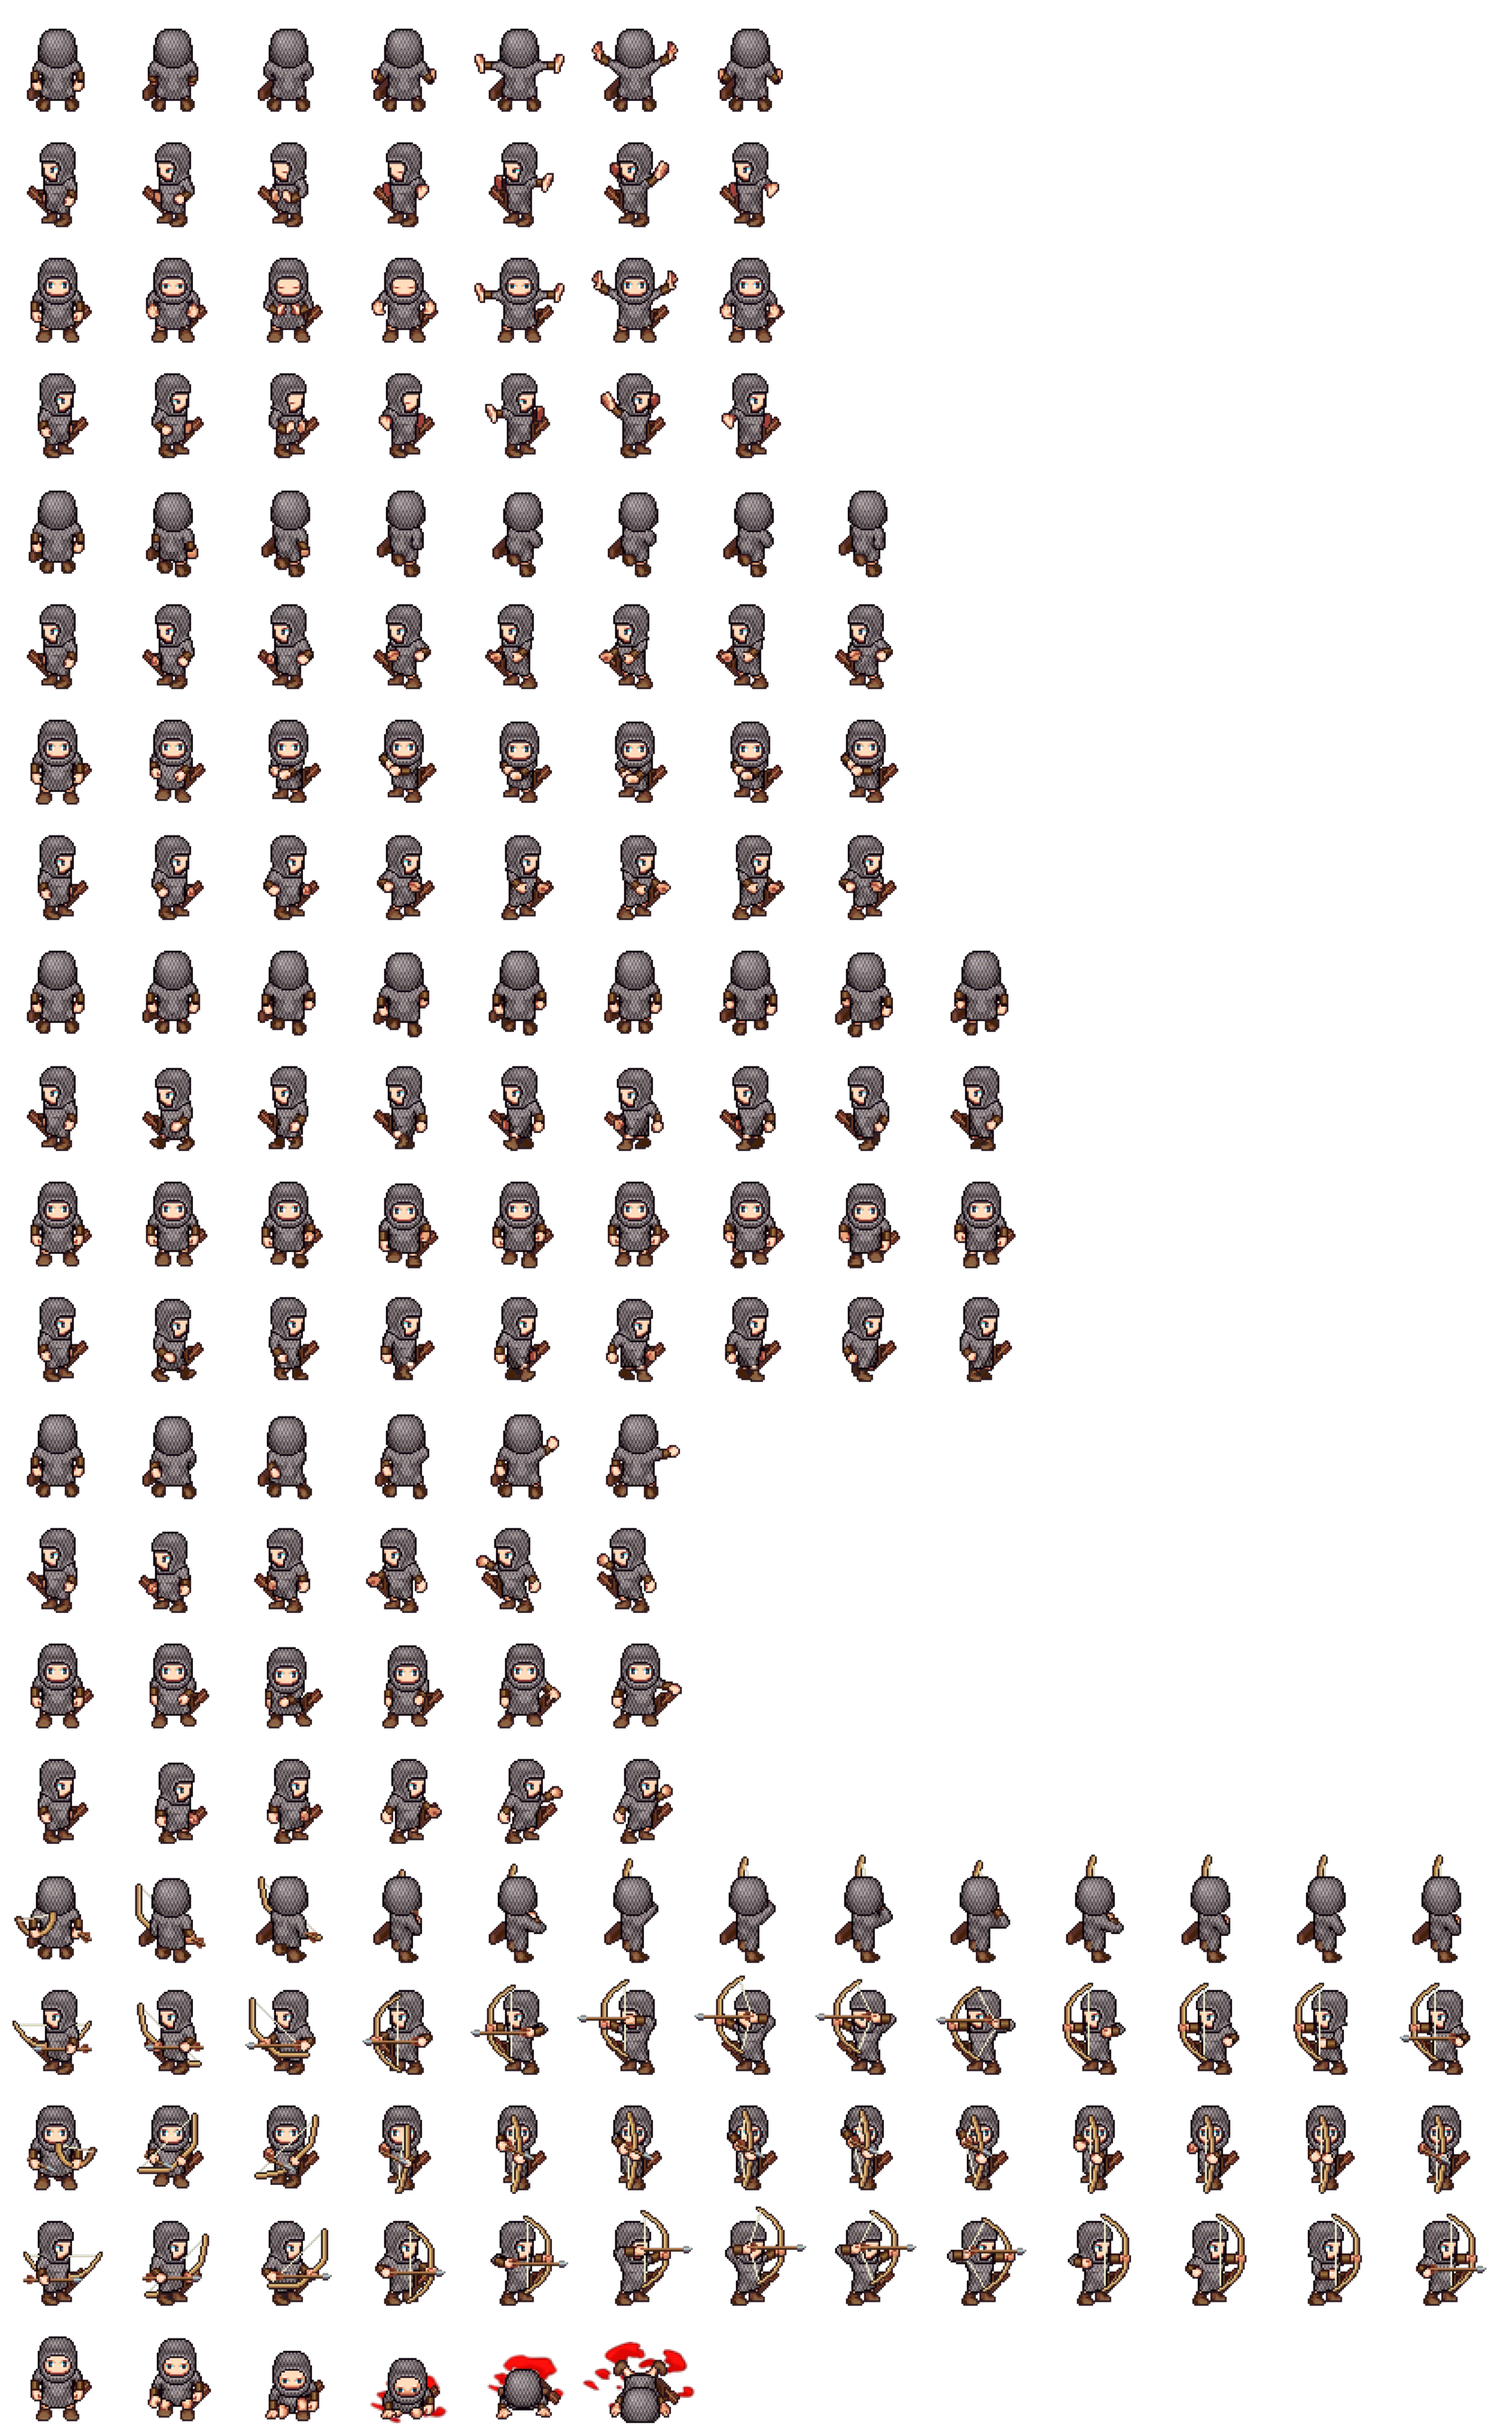
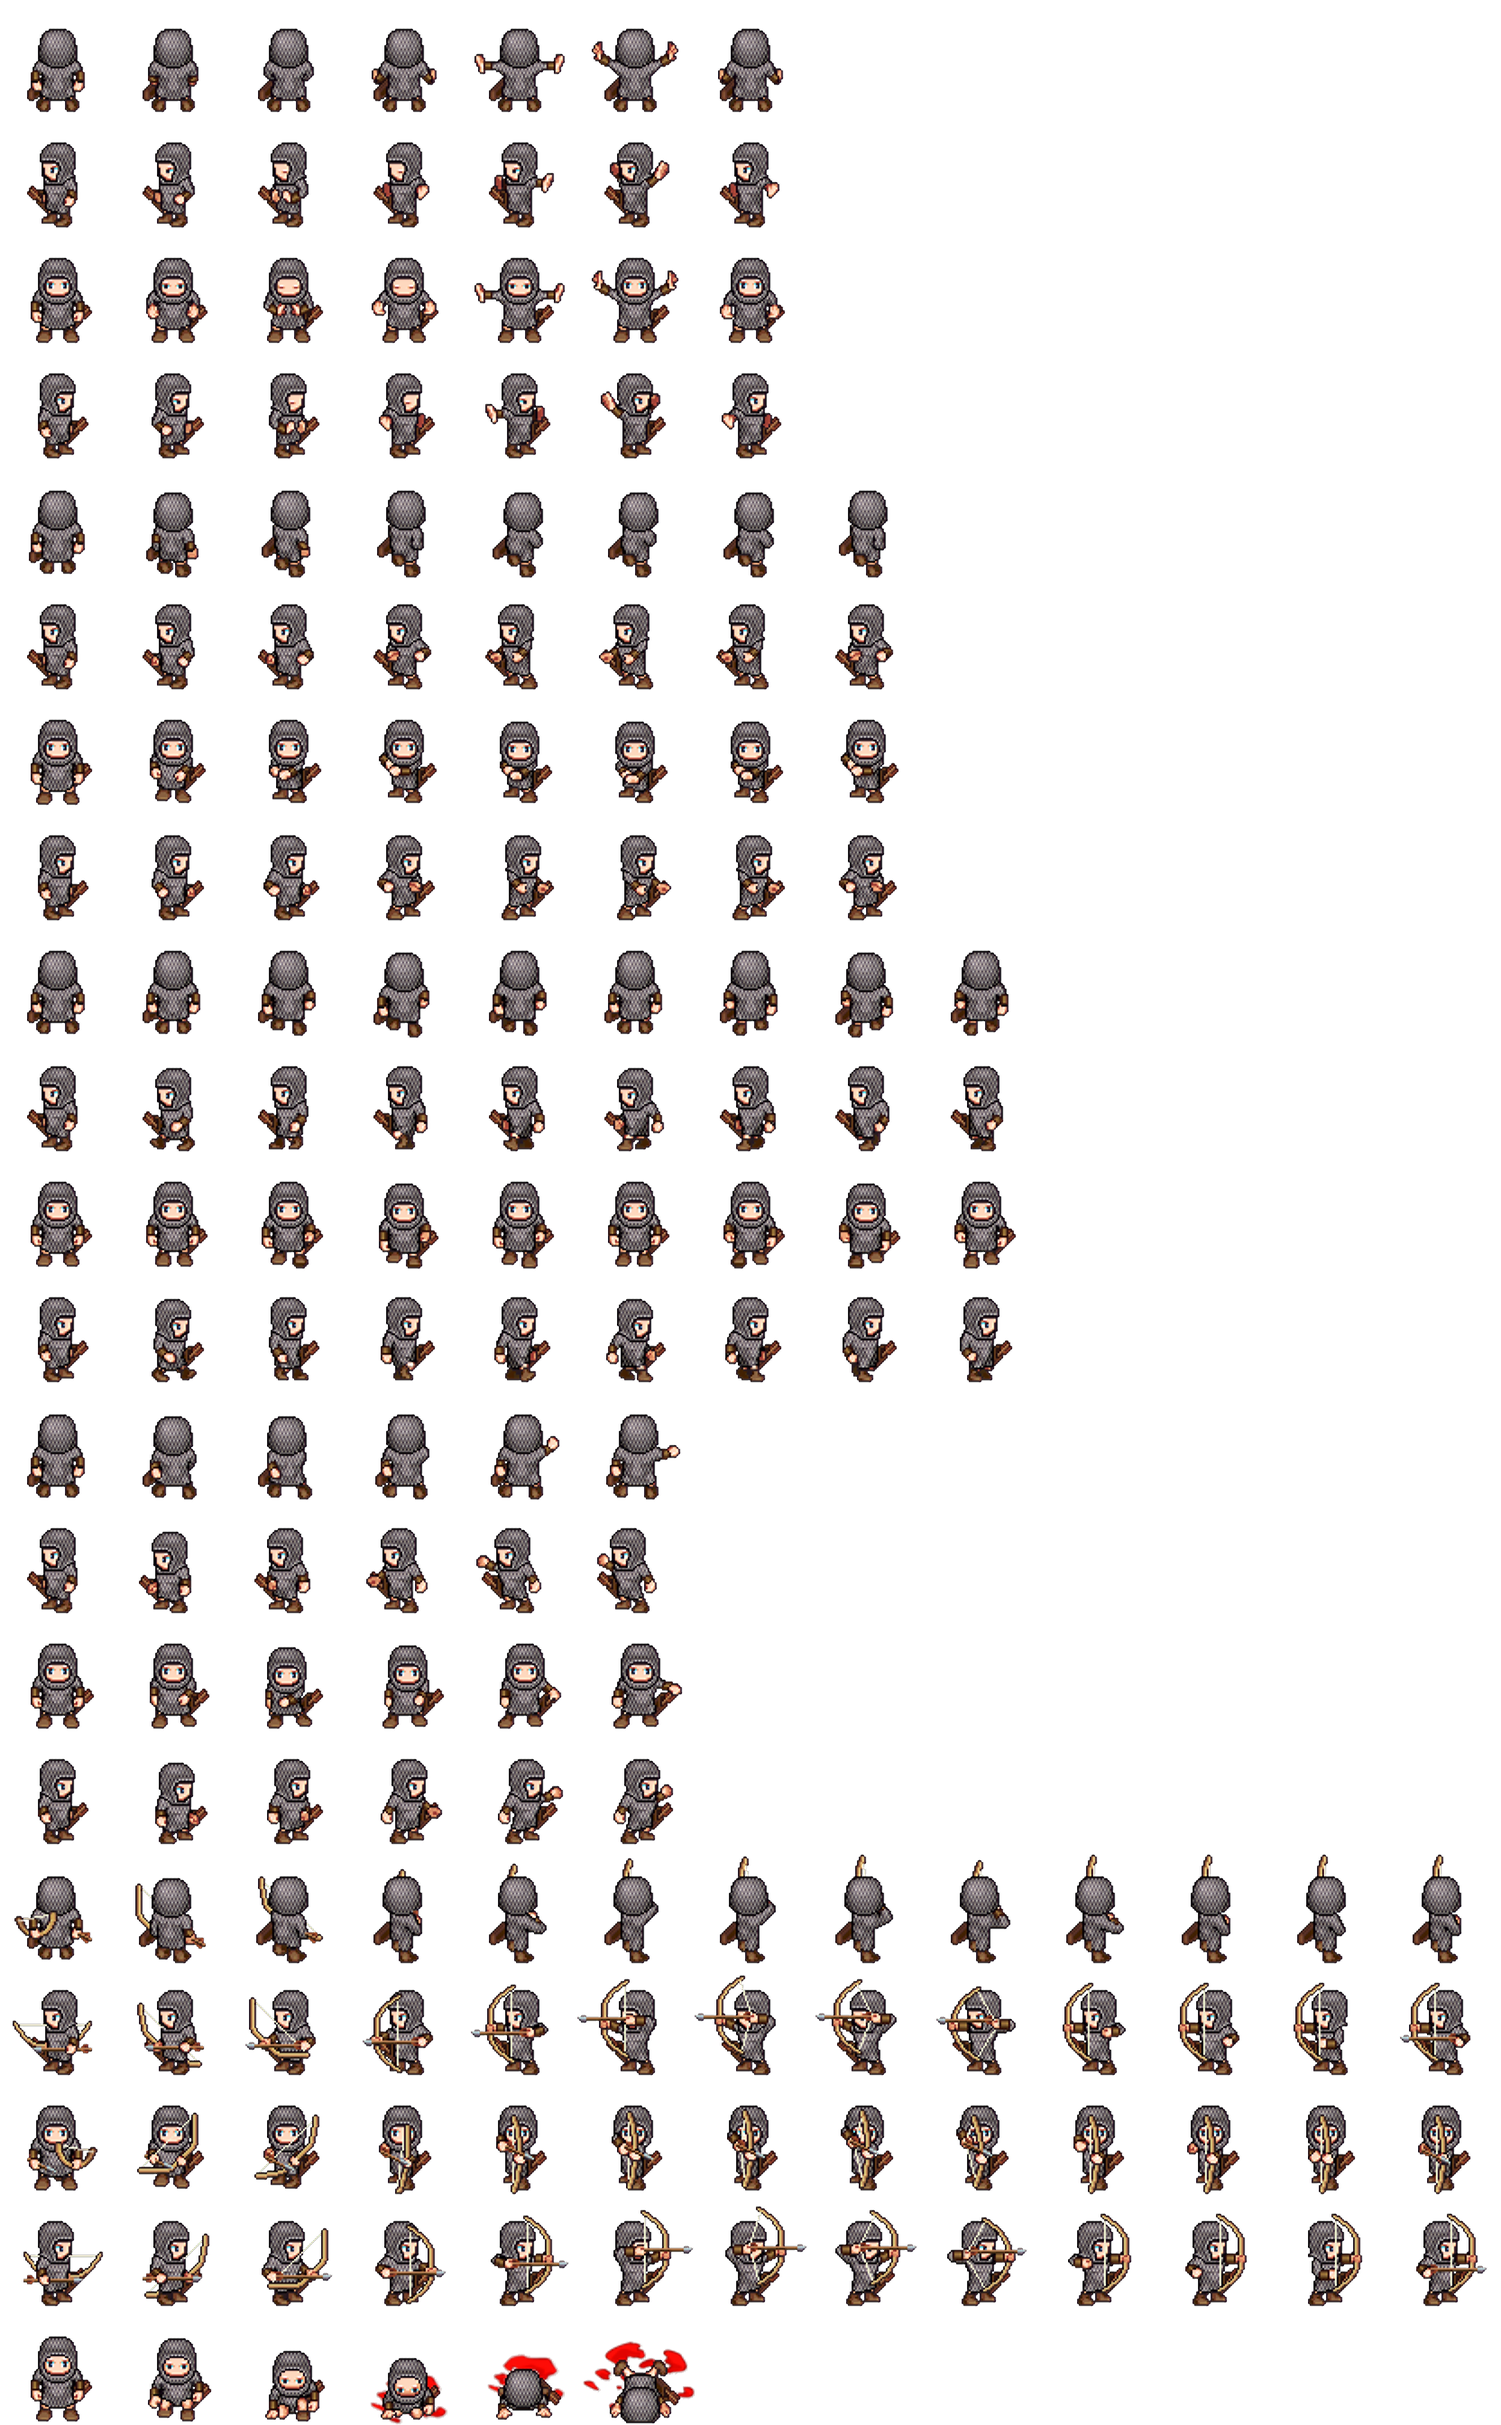
Added higher definition units

diff --git a/scripts/dataHandler.py b/scripts/dataHandler.py
@@ -1,0 +1,85 @@
+from os import listdir, mkdir
+from os.path import isfile, join, isdir
+import numpy as np
+import time
+from multiprocessing import Pool
+
+import scipy
+from scipy.misc import imsave, imresize
+from scipy import misc
+
+y = 1344
+x = 832
+# y = 72
+# x = 72
+smlX = int(x/2)
+smlY = int(y/2)
+
+def recurseFindPNG(dir):
+    pngs = []
+    for f in listdir(dir):
+        if isfile(join(dir, f)) and ('.png' in f or '.jpg' in f):
+            pngs.append(join(dir, f))
+        elif isdir(join(dir, f)):
+            pngs += recurseFindPNG(join(dir, f))
+    return pngs
+
+def findPNG(dir):
+    pngs = []
+    for f in listdir(dir):
+        if isfile(join(dir, f)) and '.png' in f:
+            pngs.append(join(dir, f))
+    return pngs
+
+def  loadData(imageFiles, resize = False, limit=-1):
+    images = []
+    imagenames = []
+    if limit == -1:
+        limit = len(imageFiles)
+    for imageNameIdx in range(0, limit):
+        try:
+            image = misc.imread(imageFiles[imageNameIdx])
+        except:
+            continue
+        imagedata = np.array(image)
+
+        # ignore images that are not the correct dimesion
+        if imagedata.shape != (y, x, 4) and resize == False:
+            continue
+        elif resize: # Resize images that are not the correct dimesions
+            image = imresize(imagedata, (y, x))
+            imagedata = np.array(image)
+
+        # Add alpha values to images with no alpha
+        if (imagedata.shape == (y, x, 3)):
+            imagedata = np.concatenate((imagedata, np.zeros((y, x, 1))), axis=2)
+
+        images.append(imagedata)
+        imagenames.append(imageFiles[imageNameIdx].split('/')[-1])
+    return [np.array(images), imagenames]
+
+def saveImages(images, names):
+    dir = repr(time.time()).split('.')[0]
+    mkdir('imagesout/' + dir)
+    for n in range(0, images.shape[0]):
+        imagedata = images[n]
+        for yIdn in range(0, len(imagedata)):
+            for xIdn in range(0, len(imagedata[yIdn])):
+                for channel in range(0, 4):
+                    if imagedata[yIdn][xIdn][channel] > 255:
+                        imagedata[yIdn][xIdn][channel] = 254.9
+                    if imagedata[yIdn][xIdn][channel] < 0:
+                        imagedata[yIdn][xIdn][channel] = 0
+                # imagedata[yIdn][xIdn][3] = imagedata[yIdn][xIdn][3] / 255
+        scipy.misc.toimage(imagedata.astype('uint8')).save('imagesout/' + dir + '/' + names[n])
+
+def loadSpriteSheet(spritesheetFiles, spritewidth=64, spriteheight=64):
+    spritesheetimages, spritesheetnames = loadData(spritesheetFiles)
+    for spritesheetimage in spritesheetimages:
+        spritesheetimage = np.array(spritesheetimage)
+        xsprites = int(spritesheetimage.shape[1] / spritewidth)
+        ysprites = int(spritesheetimage.shape[0] / spriteheight)
+        spritesheetimages.reshape((xsprites, spritesheetimage.shape[0], spritewidth, 4))
+
+
+

diff --git a/src/main/java/main/images/GameImageResource.java b/src/main/java/main/images/GameImageResource.java
@@ -191,16 +191,16 @@ public enum GameImageResource {
   BUILDING_21("images/map-entities/building_21.png"),
 
   // Unit Sprite Sheets
-  ARCHER_SPRITE_SHEET("images/units/archer.png"),
-  DARK_ELF_SPRITE_SHEET("images/units/dark_elf.png"),
-  FOOT_KNIGHT_SPRITE_SHEET("images/units/footknight.png"),
-  SPEARMAN_SPRITE_SHEET("images/units/spearman.png"),
-  GOLDEN_HERO_SPRITE_SHEET("images/units/golden_hero.png"),
-  MALE_MAGE_SPRITE_SHEET("images/units/male_mage.png"),
-  MAGE_CAPE_SPRITE_SHEET("images/units/female_mage.png"),
-  MAGE_WHITE_SPRITE_SHEET("images/units/white_mage.png"),
-  ORC_SPEARMAN_SPRITE_SHEET("images/units/orc_spearman.png"),
-  SKELETON_ARCHER_SPRITE_SHEET("images/units/skeleton_archer.png"),
+  ARCHER_SPRITE_SHEET("images/hdunits/archer.png"),
+  DARK_ELF_SPRITE_SHEET("images/hdunits/dark_elf.png"),
+  FOOT_KNIGHT_SPRITE_SHEET("images/hdunits/footknight.png"),
+  SPEARMAN_SPRITE_SHEET("images/hdunits/spearman.png"),
+  GOLDEN_HERO_SPRITE_SHEET("images/hdunits/golden_hero.png"),
+  MALE_MAGE_SPRITE_SHEET("images/hdunits/male_mage.png"),
+  MAGE_CAPE_SPRITE_SHEET("images/hdunits/female_mage.png"),
+  MAGE_WHITE_SPRITE_SHEET("images/hdunits/white_mage.png"),
+  ORC_SPEARMAN_SPRITE_SHEET("images/hdunits/orc_spearman.png"),
+  SKELETON_ARCHER_SPRITE_SHEET("images/hdunits/skeleton_archer.png"),
 
   // Test Images
   TEST_IMAGE_FULL_SIZE("fixtures/images/image_for_image_provider_tests.png"),

diff --git a/scripts/resize_trainer.py b/scripts/resize_trainer.py
@@ -1,0 +1,39 @@
+from keras.layers.core import Reshape, Activation, Dropout
+from keras.layers.pooling import AveragePooling2D
+from keras.models import Sequential, model_from_json
+import numpy as np
+import matplotlib.pyplot as plt
+import h5py
+from os.path import join
+import dataHandler as dataHandler
+from resizeLayers import scale, addConvLayers, currentweightsfile
+
+model = Sequential()
+
+model.add(AveragePooling2D(pool_size=(2,2),
+                           strides=(2,2),
+                           padding='same',
+                           input_shape=(dataHandler.y, dataHandler.x, 4)))
+model = scale(model)
+# model.add(Dropout(0.02))
+model = addConvLayers(model)
+
+model.compile(loss='mse', optimizer='rmsprop')
+# model.compile(loss='mse', optimizer='adam')
+
+trainingdata = dataHandler.loadData(dataHandler.recurseFindPNG('images/'))[0]
+# trainingdata = dataHandler.loadData(dataHandler.findPNG('images/'))[0]
+
+history = model.fit(trainingdata, trainingdata, batch_size=5, epochs=100)
+#
+# modelJSON = model.to_json()
+# with open(join('imagesmodel', 'resizer_large') + '.json', 'w') as json_file:
+#     json_file.write(modelJSON)
+model.save_weights(join('imagesmodel', currentweightsfile) + '.h5')
+
+plt.plot(history.history['loss'])
+plt.title('model loss')
+plt.ylabel('loss')
+plt.xlabel('epoch')
+plt.legend(['train', 'test'], loc='upper left')
+plt.show()

diff --git a/scripts/resizeLayers.py b/scripts/resizeLayers.py
@@ -1,0 +1,30 @@
+from keras.layers import Conv2D, UpSampling2D, Lambda
+import tensorflow as tf
+
+currentweightsfile = 'resizer_4x2'
+
+# def __keepcolorsinbounds(r):
+#     print(tf.summary.image('name', r))
+    # for batch in range(0, r.shape[0]):
+    # for y in range(0, r.shape[1]):
+    #     for x in range(0, r.shape[2]):
+    #         if r[0][y][x][0] > 0:
+    #             r[0][y][x][0] = 0
+    #         print(r[0][y][x][0])
+    # print(r[0][0][0][0])
+    # print(r.shape)
+    # return r
+
+
+
+def scale(model, amtX=2, amtY=2):
+    model.add(UpSampling2D((amtX, amtY)))
+    return model
+
+def addConvLayers(model):
+    # model.add(Conv2D(4, (3, 3), activation='relu', padding='same'))
+    model.add(Conv2D(4, (4, 4), activation='relu', padding='same'))
+    model.add(Conv2D(4, (2, 2), activation='relu', padding='same'))
+    # model.add(Conv2D(4, (1, 1), activation='relu', padding='same'))
+    # model.add(Lambda(__keepcolorsinbounds))
+    return model

diff --git a/scripts/resize.py b/scripts/resize.py
@@ -1,0 +1,31 @@
+from keras.layers.core import Reshape, Activation, Dropout
+from keras.layers.convolutional import Conv2D, UpSampling2D
+from keras.layers.pooling import AveragePooling2D
+from keras.models import Sequential, model_from_json
+import numpy as np
+import h5py
+from os.path import join
+
+import dataHandler as dataHandler
+from resizeLayers import addConvLayers, scale, currentweightsfile
+
+model = Sequential()
+
+model.add(Dropout(0, input_shape=(dataHandler.y, dataHandler.x, 4)))
+
+model = scale(model)
+
+model = addConvLayers(model)
+
+model.compile(loss='mse', optimizer='rmsprop')
+
+# json_file = open(join('imagesmodel', 'resizer_large') + '.json', 'r')
+# json_string = json_file.read()
+# json_file.close()
+model.load_weights(join('imagesmodel', currentweightsfile) + '.h5')
+
+images, names = dataHandler.loadData(dataHandler.findPNG('images/'))
+
+results = model.predict(images, 2)
+
+dataHandler.saveImages(results, names)

diff --git a/src/main/java/main/images/UnitSpriteSheet.java b/src/main/java/main/images/UnitSpriteSheet.java
@@ -43,8 +43,8 @@ public interface UnitSpriteSheet extends Serializable {
      */
     IDLE(8, 1, true);
 
-    public static final int UNIT_WIDTH = 64;
-    public static final int UNIT_HEIGHT = 64;
+    public static final int UNIT_WIDTH = 128;
+    public static final int UNIT_HEIGHT = 128;
 
     public final int firstRow;
     public final int frames;
